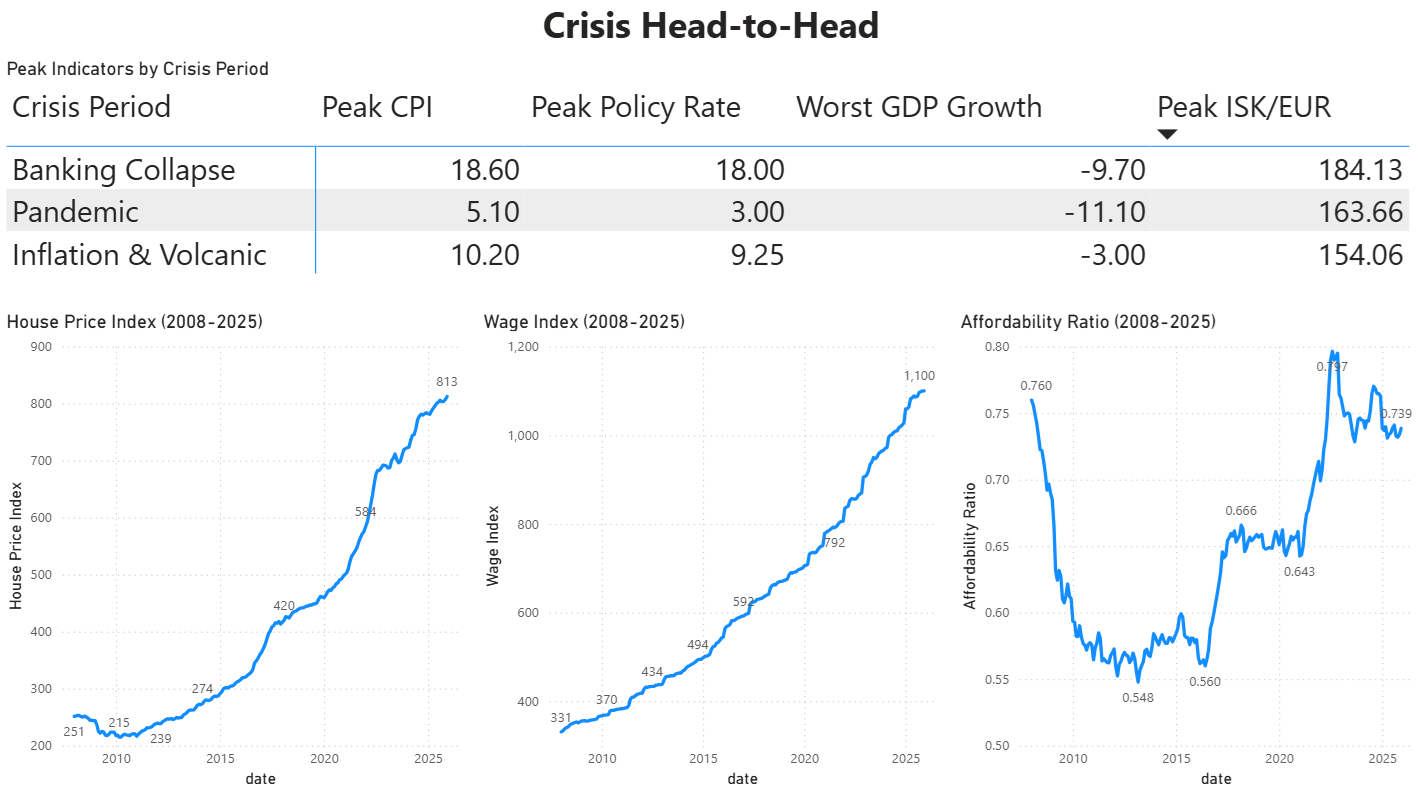
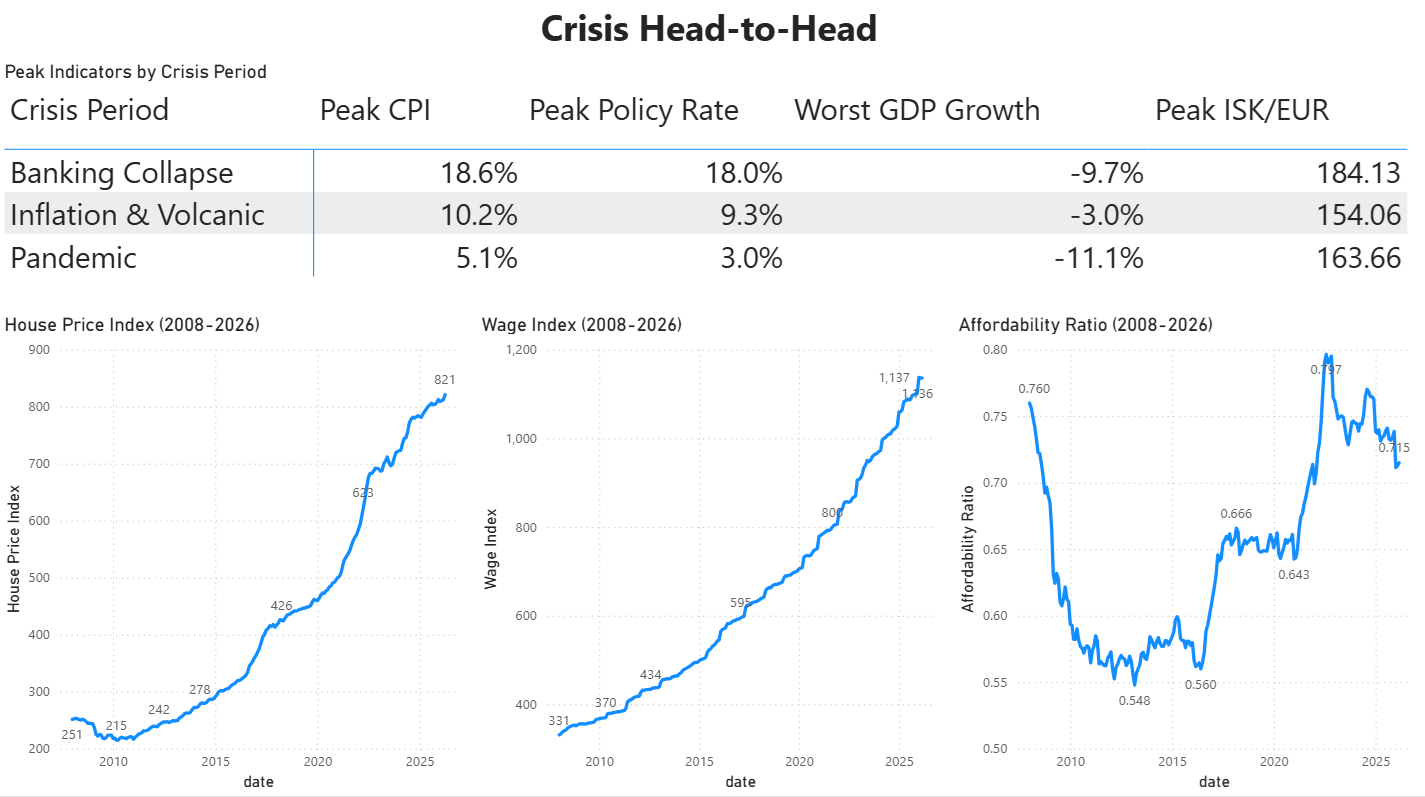
fix: correct data accuracy, extend crisis period to Apr 2026, and add latest-value KPI measures

diff --git a/README.md b/README.md
@@ -1,6 +1,6 @@
 # Iceland Economic Analytics
 
-An end-to-end Microsoft Fabric data engineering pipeline tracking Iceland's economic performance across three major crises: the 2008 banking collapse, the 2020 pandemic, and the 2022–2024 inflation and volcanic period.
+An end-to-end Microsoft Fabric data engineering pipeline tracking Iceland's economic performance across three major crises: the 2008 banking collapse, the 2020 pandemic, and the 2022–2026 inflation and volcanic period.
 
 Built as a portfolio project for the **Microsoft Certified: Fabric Data Engineer Associate (DP-700)** certification.
 
@@ -12,7 +12,7 @@ Iceland has faced three major economic crises in 16 years:
 
 *   **2008** — The entire banking system collapsed overnight.
 *   **2020** — Tourism vanished and GDP cratered.
-*   **2022–2024** — Inflation hit 10%, interest rates reached 9.25%, and volcanic eruptions displaced thousands.
+*   **2022–2026** — Inflation hit 10%, interest rates reached 9.25%, and volcanic eruptions displaced thousands.
 
 Official data from **Seðlabanki Íslands** (Central Bank of Iceland) and **Hagstofa Íslands** (Statistics Iceland) is ingested into Microsoft Fabric and transformed through a Bronze → Silver → Gold medallion pipeline into a Kimball star schema, served by a Power BI Direct Lake semantic model.
 
@@ -23,12 +23,16 @@ Official data from **Seðlabanki Íslands** (Central Bank of Iceland) and **Hags
 <div align="center">
 
 ### Page 1 — The Three Crises
-*CPI vs Policy Rate, GDP Growth, ISK/EUR — full timeline 2008–2025 with crisis period filter*
+*CPI vs Policy Rate, GDP Growth, ISK/EUR — full timeline 2008–2026 with crisis period filter*
+
+The six KPI cards at the top display the **latest available value** for each indicator, sourced directly from the Seðlabanki and Hagstofa APIs via the `(Latest)` DAX measures.
 
 ![Dashboard Page 1 — The Three Crises](assets/dashboard_crisis_overview.png)
 
 ### Page 2 — Crisis Head-to-Head
 *Peak indicators compared across Banking Collapse, Pandemic, and Inflation & Volcanic periods*
+
+The matrix table shows peak stress indicators for each crisis period — highest CPI, highest policy rate, worst quarterly GDP growth, and peak ISK/EUR rate. The three charts below track House Price Index, Wage Index, and the Affordability Ratio (HPI ÷ Wage Index) across the full 2008–2026 timeline, illustrating how housing affordability has evolved through each crisis.
 
 ![Dashboard Page 2 — Crisis Head-to-Head](assets/dashboard_crisis_comparison.png)
 
@@ -44,6 +48,19 @@ Official data from **Seðlabanki Íslands** (Central Bank of Iceland) and **Hags
 | [Hagstofa Íslands](https://hagstofa.is) — PX-Web REST API | GDP YoY growth (quarterly), House Price Index, Wage Index | Monthly / Quarterly |
 
 All data is sourced directly from official Icelandic institutions.
+
+**Publication lag:** KPI cards show the latest value available in the API at the time the pipeline was last run. Each indicator publishes on its own schedule:
+
+| Indicator | Publisher | Lag |
+|---|---|---|
+| Policy Rate | Seðlabanki | No lag — updated immediately on rate decision days (8 times/year) |
+| CPI Inflation | Hagstofa | Published at the end of each reference month — typically 2–4 weeks |
+| ISK/EUR Rate | Seðlabanki | No lag — daily data, always current |
+| GDP Growth | Hagstofa | ~6–8 weeks after quarter end |
+| House Price Index | Hagstofa | ~2 months behind the reference month |
+| Wage Index | Hagstofa | ~2 months behind the reference month |
+
+This means the KPI cards may not all reference the same month. This is not a pipeline issue — it reflects when official statistics are actually published. Re-running the master pipeline will always pull the most recently available figures.
 
 ---
 
@@ -239,13 +256,13 @@ erDiagram
 | `iskeur` | ISK/EUR Exchange Rate | ISK per 1 EUR | Seðlabanki |
 | `gdp_yoy_growth` | GDP Year-on-Year Growth | Percent (%) | Hagstofa |
 | `hpi` | House Price Index | Index (Mar 2000=100) | Hagstofa |
-| `wage_index` | Wage Index | Index (Dec 2018=100) | Hagstofa |
+| `wage_index` | Wage Index | Index (Dec 1988=100) | Hagstofa |
 
 ### `gold.dim_date`
 
 Standard daily date spine (1990–2030) with full calendar attributes.
 
-`crisis_period` labels each date as `Banking Collapse` (2008–2011), `Pandemic` (2020–2021), `Inflation & Volcanic` (2022–2024), or `Normal`. `is_crisis_period` boolean flag. Used in Power BI for shaded crisis bands without DAX complexity.
+`crisis_period` labels each date as `Banking Collapse` (2008–2011), `Pandemic` (2020–2021), `Inflation & Volcanic` (2022–2026), or `Normal`. `is_crisis_period` boolean flag. Used in Power BI for shaded crisis bands without DAX complexity.
 
 ---
 
